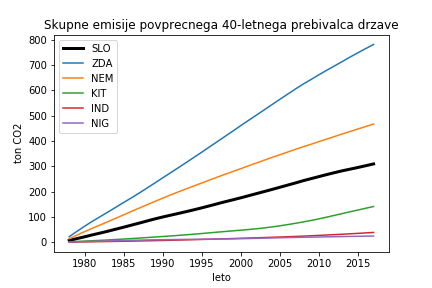
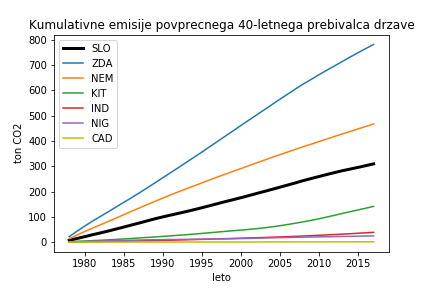
blah

Changed region(s): [[0.0602, 0.0625, 0.963, 0.125], [0.1505, 0.8125, 0.8727, 0.8438], [0.1204, 0.4375, 0.2708, 0.5312]]

diff --git a/_posts/2019-12-23-kdo_je_kriv.md b/_posts/2019-12-23-kdo_je_kriv.md
@@ -1,6 +1,6 @@
 ---
 title: '[SLO] Koliko emisij CO<sub>2</sub> je zakrivil 40-letni Slovenec napram vrstnikom po svetu?'
-date: 2019-12-23
+date: 2019-12-21
 permalink: /posts/2019/12/blog-post-3/
 header:
   teaser: emissions.png
@@ -10,6 +10,14 @@ tags:
   - category2
 ---
 
-Zanima nas, koliko emisij CO<sub>2</sub> je "zakrivil" povprečni 40-letni prebivalec Slovenije napram svojim vrstnikom po svetu. Pri tem napravimo nujno predpostavko, da ves čas svojega življenja živi tako ogljično intenzivno kot povprečen državljan.
+Zanima nas, koliko emisij CO<sub>2</sub> je "zakrivil" povprečen 40-letni prebivalec Slovenije napram svojim vrstnikom po svetu. Pri tem napravimo nujno predpostavko, da ves čas svojega življenja živi tako ogljično intenzivno kot povprečen državljan. Podatki so na voljo na strani [Our World in Data](https://ourworldindata.org/co2-and-other-greenhouse-gas-emissions)
 
-Izkaže
+![Kumulativne emisije CO2](/images/emissions.png)
+
+Izkaže se, da je povprečen 40-letni prebivalec Slovenije v času svoje življenja povzročil
+- 0.4 x toliko CO<sub>2</sub> kot povprečen Američan
+- 0.7 x toliko CO<sub>2</sub> kot povprečen Nemec
+- 2.2 x toliko CO<sub>2</sub> kot povprečen Kitajec
+- 7 x toliko CO<sub>2</sub> kot povprečen Indijec
+- 13 x toliko CO<sub>2</sub> kot povprečen Nigerijec
+- 228 x toliko CO<sub>2</sub> kot povprečen prebivalec Čada (Podsaharska Afrika, trenutno najmanj razvit del sveta)
